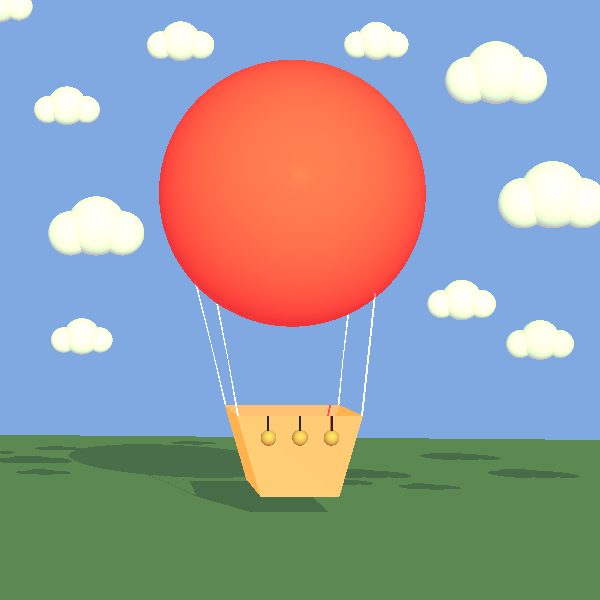
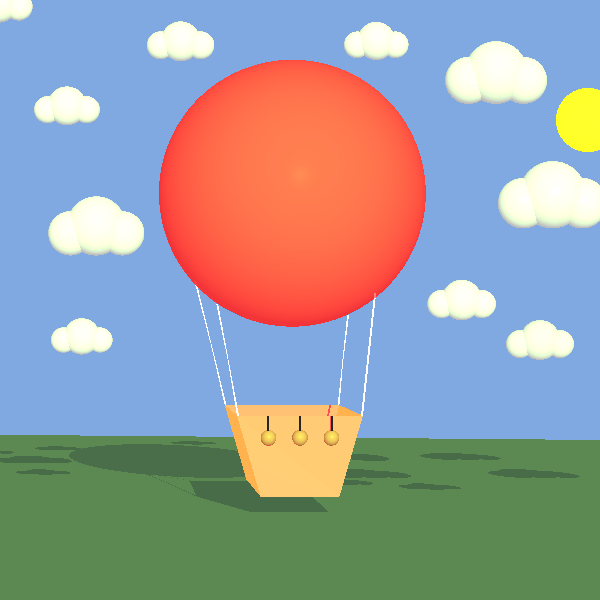
3d

Changed region(s): [[0.93, 0.15, 1.0, 0.27], [0.57, 0.75, 0.66, 0.78]]

diff --git a/unitTests/MiniProj1/hotAirBaloon.java b/unitTests/MiniProj1/hotAirBaloon.java
@@ -394,19 +394,9 @@ public class hotAirBaloon {
 
                 new Sphere(new Point(8,-35,-16),2).setEmission(new Color(139, 69, 19)).setMaterial(new Material().setkD(0.5).setkS(0.5).setnShininess(100)),//,
                 new Triangle(new Point(7.75,-29.36,-15),new Point(8.25,-29.36,-15),new Point(8.25,-35,-15)).setEmission(new Color(black)),
-                new Triangle(new Point(7.75,-29.36,-15),new Point(7.75,-35,-15),new Point(8.25,-35,-15)).setEmission(new Color(black))
+                new Triangle(new Point(7.75,-29.36,-15),new Point(7.75,-35,-15),new Point(8.25,-35,-15)).setEmission(new Color(black)),
 
-
-
-
-
-
-
-
-
-
-
-        //new Plane(p1, p2, p3).setEmission(new Color(white)).setMaterial(new Material().setkD(0.4).setkS(0.3).setnShininess(100))
+                new Sphere(new Point(72,45,0),8).setEmission(new Color(yellow)).setMaterial(new Material().setkD(0.1).setkS(0).setnShininess(100))
 
         );
         ///scene4.lights.add(new SpotLight(new Color(500, 600, 400),
@@ -417,6 +407,7 @@ public class hotAirBaloon {
         //scene4.lights.add(new DirectionalLight(new Color(200,300,100).scale(0.8),new Vector(20,-18,20)));
 
         scene4.lights.add(new DirectionalLight(new Color(200,300,100).scale(0.8),new Vector(-1,-2,-8)));
+        scene4.lights.add(new PointLight(new Color(orange),new Point(72,45,0)));
         //scene4.lights.add(new PointLight( new Color(100,100,100),new Point( -8,-35,-16)));
 
         /*
